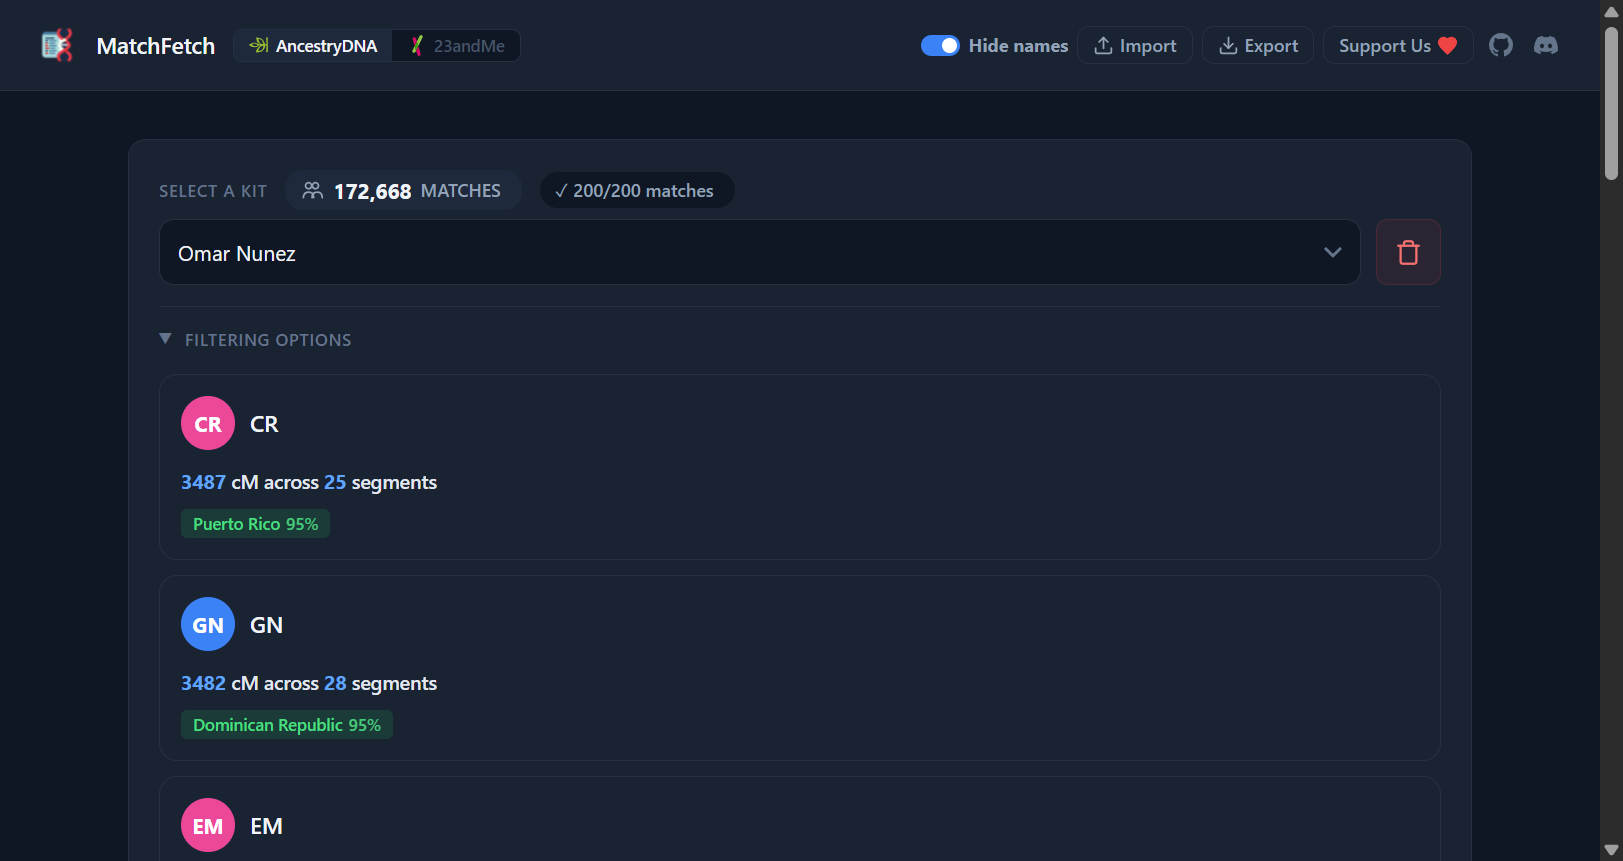
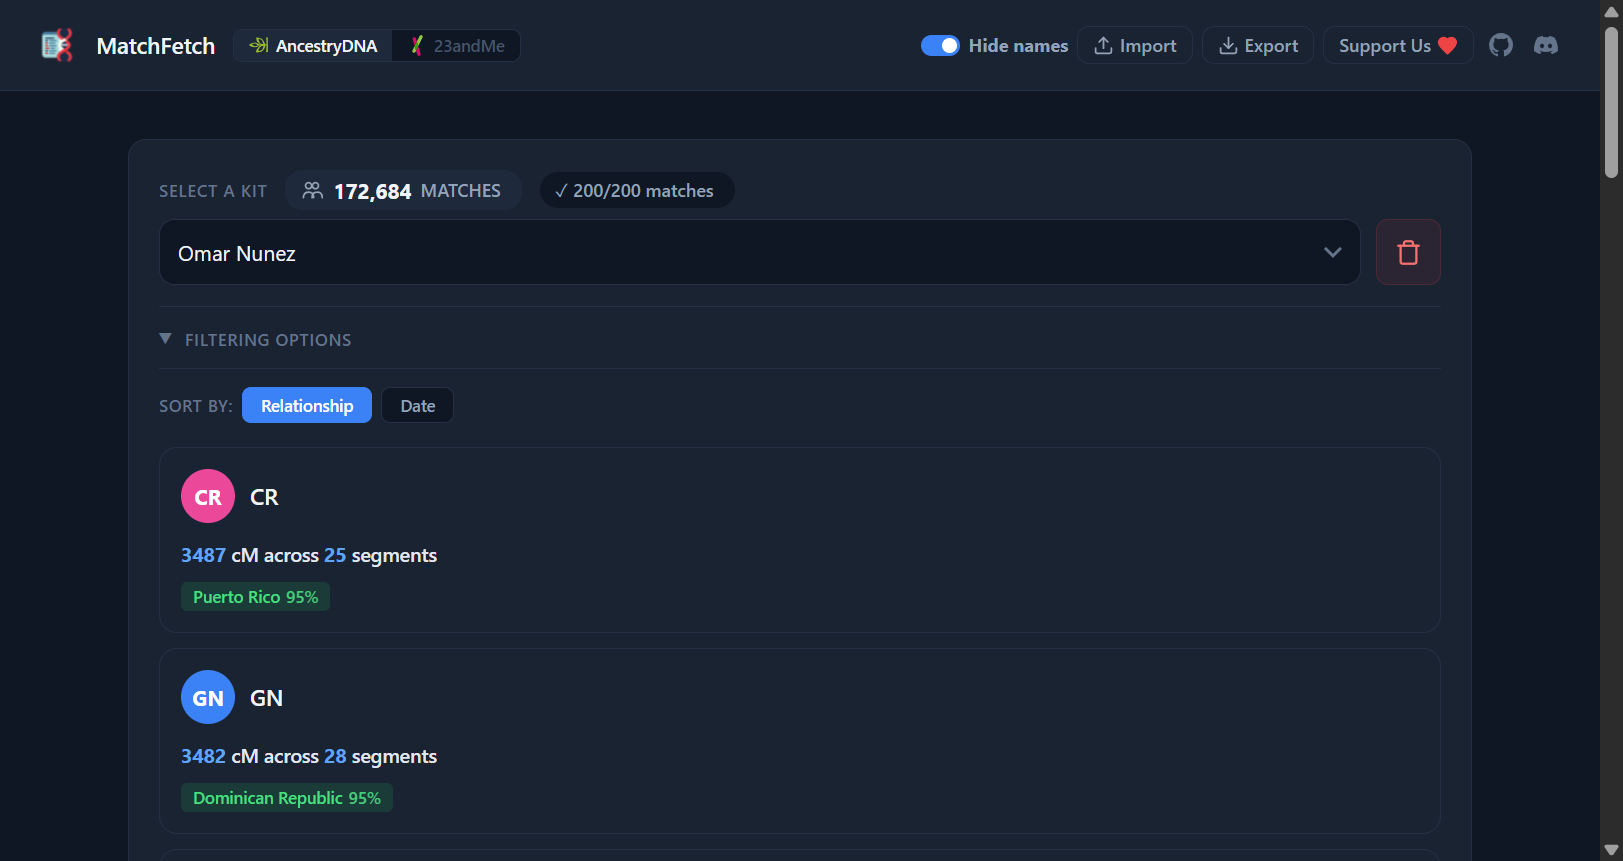
feat: update version to 0.1.1 and enhance sorting functionality in match list

Changed region(s): [[0.0924, 0.4228, 0.2773, 0.9965]]

diff --git a/src/app.js b/src/app.js
@@ -23,6 +23,7 @@
     fetchStateBadge: '',
     showFetchOptions: true,
     fetchComplete: false,
+    sortBy: 'cm',
     buttonLabel: null,
     modal: null,
     cmRangeMin: '90',
@@ -489,20 +490,6 @@
     return true
   }
 
-  function getFilteredMatches() {
-    var list = s.matchListData && s.matchListData.matchList
-    if (!list) return []
-    return list.filter(matchesFilter)
-  }
-
-  function getPageMatches() {
-    var filtered = getFilteredMatches()
-    var totalPages = Math.max(1, Math.ceil(filtered.length / s.pageSize))
-    if (s.currentPage > totalPages) s.currentPage = totalPages
-    var start = (s.currentPage - 1) * s.pageSize
-    return { filtered: filtered, start: start, end: Math.min(start + s.pageSize, filtered.length), totalPages: totalPages }
-  }
-
   var _cachedRegionOpts = null
 
   function buildRegionOptions() {
@@ -887,21 +874,32 @@
     })
   }
 
+  function sortMatches(a, b) {
+    if (s.sortBy === 'cm') return (b.relationship && b.relationship.sharedCentimorgans || 0) - (a.relationship && a.relationship.sharedCentimorgans || 0)
+    return (b.createdDate || 0) - (a.createdDate || 0)
+  }
+
   var MatchList = {
     view: function () {
       var list = s.matchListData && s.matchListData.matchList
       if (!list) return m('#matchListResult')
       readFilters()
-      var pg = getPageMatches()
-      var filtered = pg.filtered
-      var start = pg.start
-      var end = pg.end
+      var sorted = list.slice().sort(sortMatches)
+      var filtered = sorted.filter(matchesFilter)
+      var start = (s.currentPage - 1) * s.pageSize
+      var end = Math.min(start + s.pageSize, filtered.length)
       var total = list.length
       var shown = filtered.length
       var page = filtered.slice(start, end)
-      var totalPages = pg.totalPages
+      var totalPages = Math.max(1, Math.ceil(filtered.length / s.pageSize))
+      if (s.currentPage > totalPages) s.currentPage = totalPages
       var cards = page.map(function (match) { return m(MatchCard, { match: match, guid: s.selectedGuid }) })
       return m('#matchListResult', [
+        m('.sort-bar', [
+          m('span.sort-label', 'Sort by:'),
+          m('button.sort-btn' + (s.sortBy === 'cm' ? '.active' : ''), { onclick: function () { setState({ sortBy: 'cm', currentPage: 1 }) } }, 'Relationship'),
+          m('button.sort-btn' + (s.sortBy === 'date' ? '.active' : ''), { onclick: function () { setState({ sortBy: 'date', currentPage: 1 }) } }, 'Date')
+        ]),
         shown < total ? m('.match-count', ['Showing ', m('strong', shown), ' of ', m('strong', total), ' matches']) : null,
         m('.cards', cards),
         totalPages > 1 ? m(Pagination, { currentPage: s.currentPage, totalPages: totalPages }) : null

diff --git a/src/app.html b/src/app.html
@@ -110,6 +110,11 @@ select:focus { border-color: #3b82f6; box-shadow: 0 0 0 3px rgba(59,130,246,.15)
 .region-row { display:inline-flex;align-items:center;gap:4px;margin:2px 4px 2px 0; }
 #regionFilters { white-space:normal; }
 .filter-clear:hover { color: #f87171; }
+.sort-bar { display: flex; align-items: center; gap: 6px; margin-top: 12px; margin-bottom: 10px; padding-top: 12px; border-top: 1px solid #253044; }
+.sort-label { font-size: 11px; font-weight: 600; color: #64748b; text-transform: uppercase; letter-spacing: .5px; }
+.sort-btn { background: #0f1724; border: 1px solid #253044; color: #94a3b8; cursor: pointer; font-size: 11px; font-weight: 600; padding: 4px 12px; border-radius: 6px; font-family: inherit; transition: all .15s; }
+.sort-btn:hover { background: #253044; color: #e2e8f0; }
+.sort-btn.active { background: #3b82f6; color: #fff; border-color: #3b82f6; }
 .pagination { display: flex; align-items: center; justify-content: center; gap: 12px; margin-top: 16px; }
 .page-btn {
     background: #1e293b; border: 1px solid #253044; color: #94a3b8; cursor: pointer;

diff --git a/src/match.js b/src/match.js
@@ -327,7 +327,6 @@
     e.preventDefault()
     chrome.tabs.query({ url: chrome.runtime.getURL('src/app.html') }, function(t) {
       if (t && t.length) chrome.tabs.update(t[0].id, { active: true })
-      window.close()
     })
   })
 

diff --git a/README.md b/README.md
@@ -32,6 +32,6 @@ Fetch, browse, and explore your AncestryDNA match data.
 
 ---
 
-Created by Omar Nunez · Version 0.0.2
+Created by Omar Nunez · Version 0.1.1
 
 _23andMe support coming soon._
